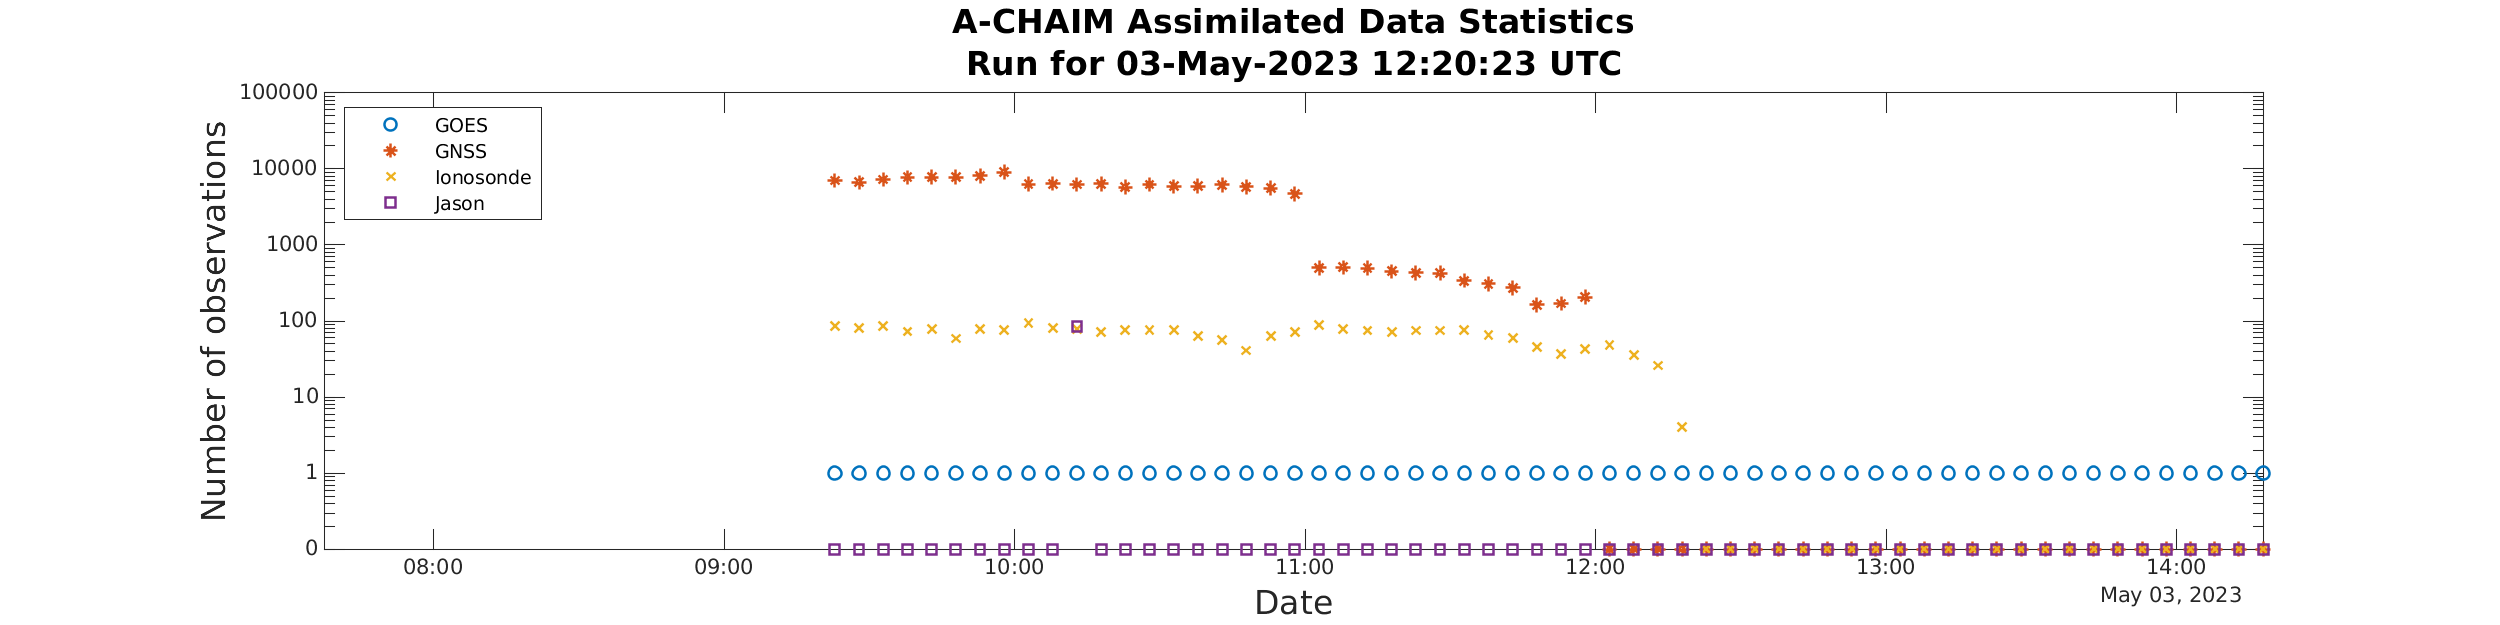
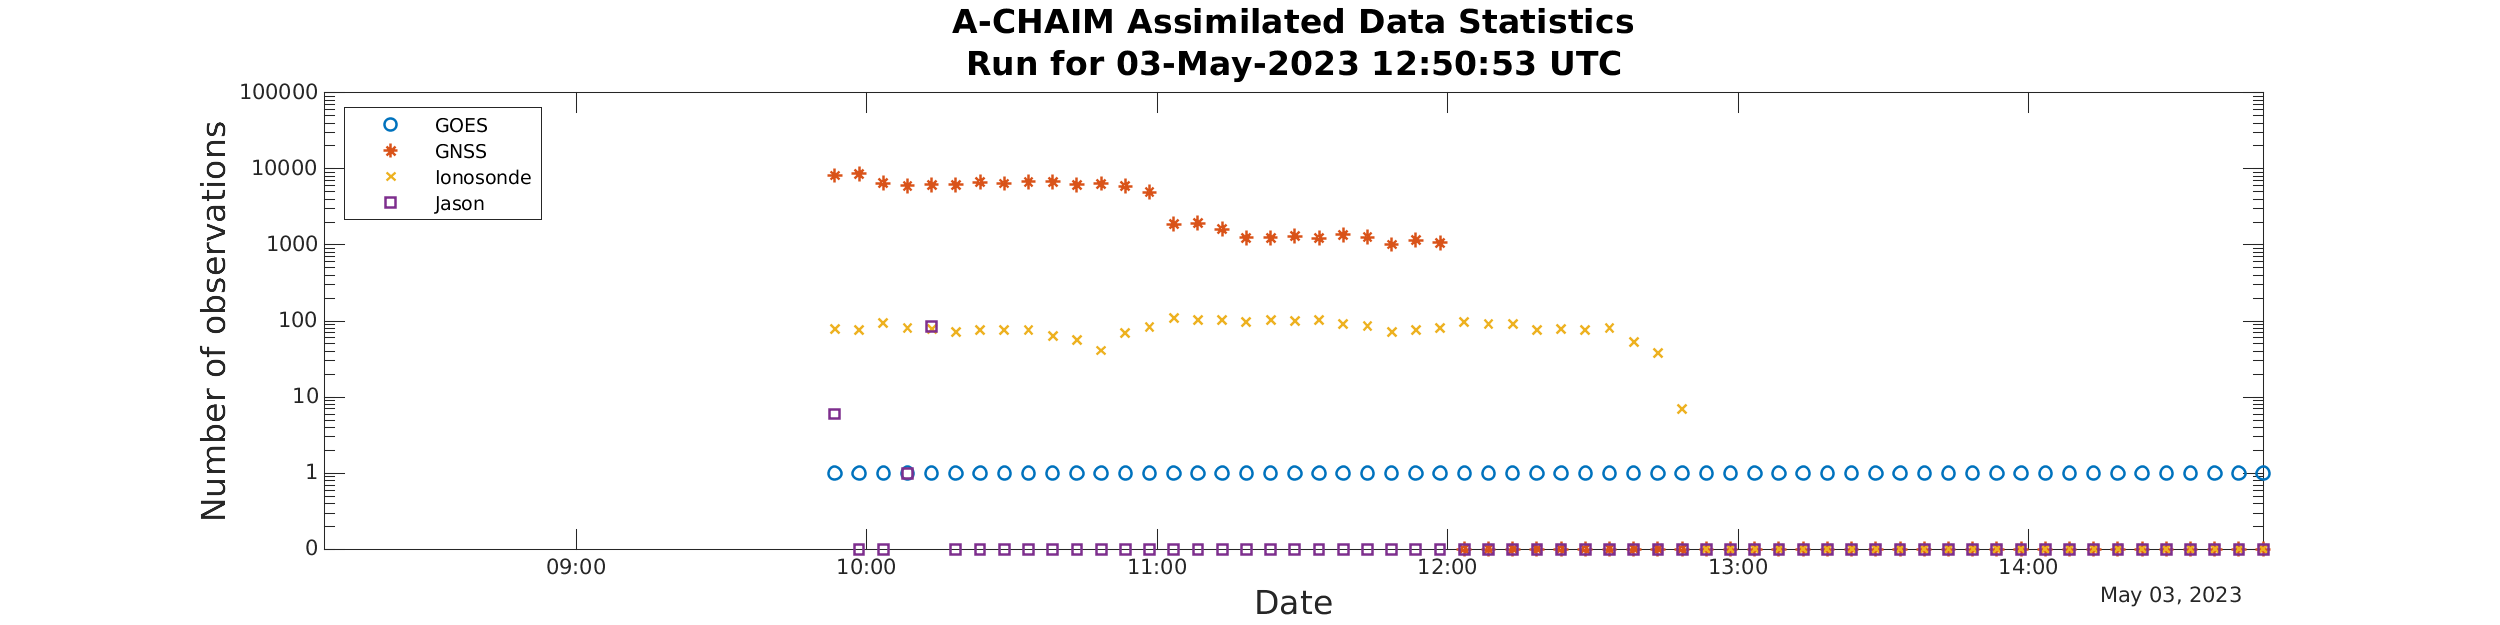
update 2023-05-03 13:16:06

diff --git a/_posts/2023-05-03-12-50-53.md b/_posts/2023-05-03-12-50-53.md
@@ -1,8 +1,8 @@
 ---
 layout: post
-title: "2023-05-03 12:20:23"
-subtitle: "ModelData Issues: 3; A-CHAIM System Issues: 0"
-
+title: "2023-05-03 12:50:53"
+subtitle: "ModelData Issues: 3; A-CHAIM System Issues: 1"
+permalink: /latest/
 ---
 
 ![]({{ "/assets/img/achaimDataStatsShort-2312312.png" | relative_url }})
@@ -17,13 +17,16 @@ subtitle: "ModelData Issues: 3; A-CHAIM System Issues: 0"
 ### ModelData Issues:  
   
 {: .box-warning}  
- ModelData report for 03-May-2023 12:20:09   
+ ModelData report for 03-May-2023 12:50:40   
  /home/chaim/ACHAIM_SERVER/A-CHAIM/modelData/2023/123/12/modelData.mat   
- 0% of all possible stations for JASON were downloaded. x2   
- 0% of all possible stations for KASI were downloaded. x2692   
- 0% of all possible stations for CHAIN were downloaded. x1653   
+ 0% of all possible stations for JASON were downloaded. x3   
+ 0% of all possible stations for KASI were downloaded. x2693   
+ 0% of all possible stations for CHAIN were downloaded. x1654   
   
-
+### A-CHAIM System Issues:  
+  
+{: .box-error}  
+2023-05-03 12:50:47 Conversion to logical from string is not possible.  
 
 ### Logs:  
   
